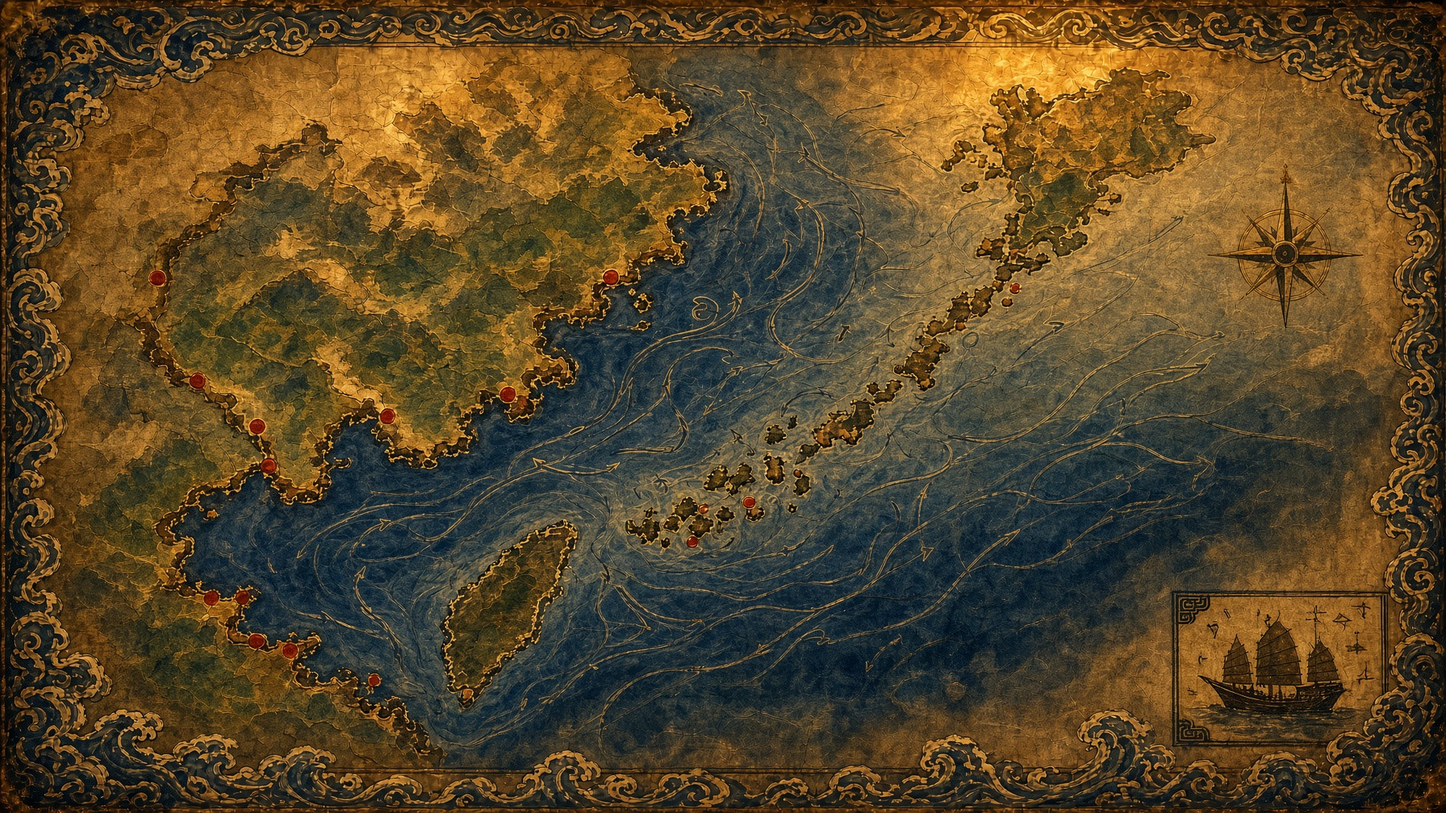
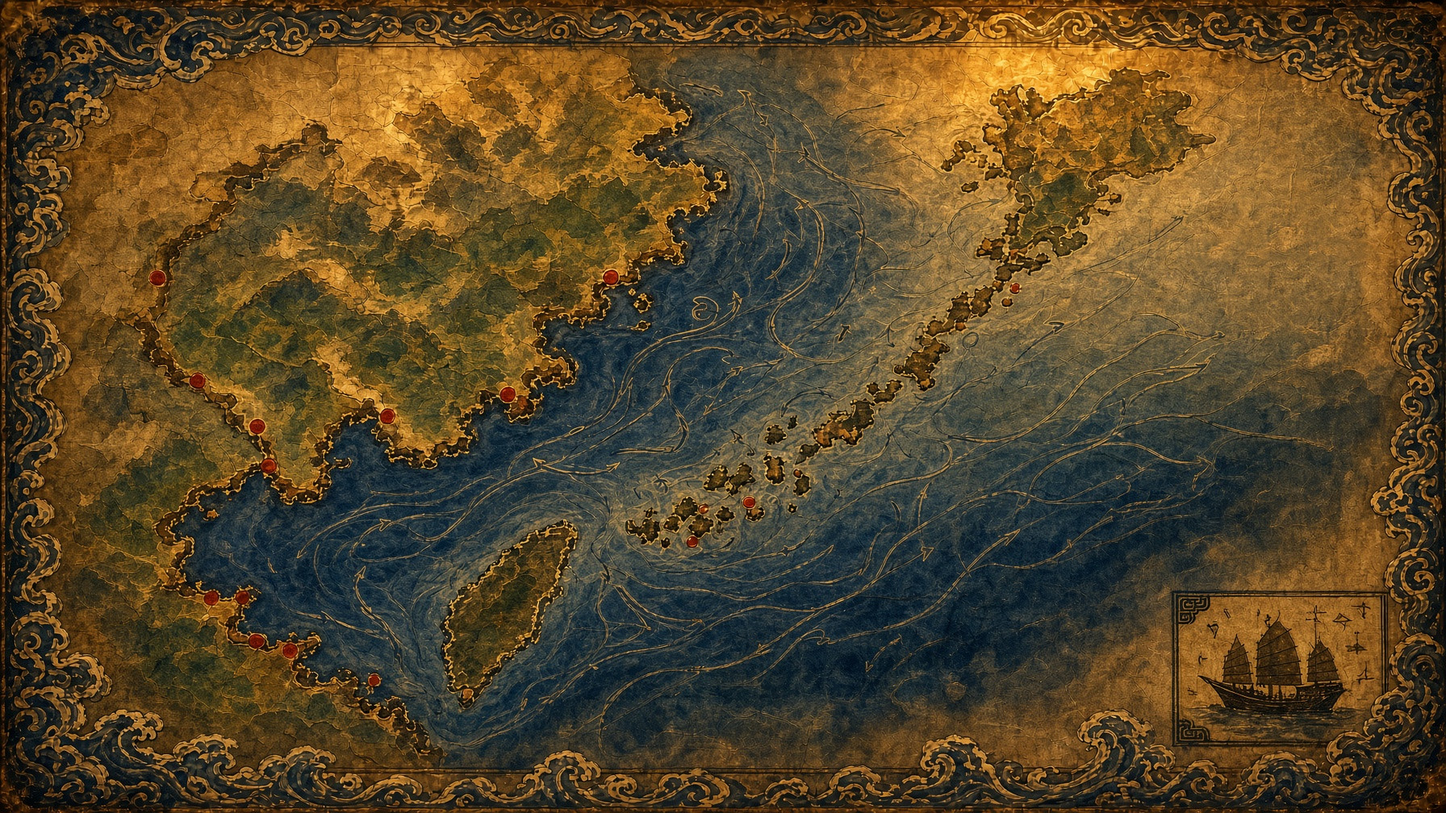
art(cutscene): 开场首镜 cs_world_map_gold 走 POSTFIX 抹掉右上八向风玫瑰（A′，备忘 #5）
import_cutscene_bgs.py 的 POSTFIX 登记 erase_world_map_compass.py --only cs --in-place；
删掉产物后不带 --force 重跑导入，从旧底 legacy:bg_world_map.jpg 重新导出（与原产物 sha1 71c1add… 相同）
再就地修，清单 out_sha1 → eea37ec…、加 post 字段，其余 18 条不变。另在副本上 --force 全量重导，19 张 sha1 全部不变。
改动 MCU 517 个，块外 DCT 口径 0 变动；判据：放射纹 0.0881→0.0109，暗圈 0.302→0.027。
过场读导入件 .ctex，已 headless --import 重新导入（.import 侧车不变）。

Changed region(s): [[0.8125, 0.1845, 0.9375, 0.3998]]

diff --git a/tools/art/import_cutscene_bgs.py b/tools/art/import_cutscene_bgs.py
@@ -20,7 +20,7 @@
 ~/tmp/nk1-art/assets，可用 NK1_LEGACY_ASSETS 覆盖。（lane gd13：原写死 Mac 家目录下的绝对路径，即 Mac 上 ~ 的展开，
 Mac 上默认路径不变；清单只记 codex: / legacy: / repo: 相对路径，换根不影响产物与 .import_manifest.json。）
 来源目录不在时（新克隆、别的机器、合回 main 后），--check 自动退化为 --data-only：只核对产物与清单一致，不报「来源缺失」。
-导出后要修瑕的图登记在 POSTFIX：写出后立即就地跑对应脚本（素材池原图带晚于宋元的器物，如青花），清单 out_sha1 记修后的图，
+导出后要修瑕的图登记在 POSTFIX：写出后立即就地跑对应脚本（素材池原图带晚于宋元的器物，如青花；或西式母题，如风玫瑰），清单 out_sha1 记修后的图，
 所以 --force 重导也不会把修过的地方冲回去。
 取不到时明确报错（lane doc8）：导入缺来源根 / 缺源图时 FAIL 行写明根取自环境变量还是缺省、该设哪个变量；
 环境变量显式设了却指向不存在的目录，导入与 --check 都直接 FAIL（不静默退化）；--data-only 不看来源，不受影响。
@@ -100,9 +100,11 @@ MANIFEST = [
 ]
 
 # 导出后就地修瑕（2026-09-26）：产物名 → tools/art/ 下的脚本与参数。青花是元至正以后的器物，改成宋元单色釉
+# 2026-09-28（A′，决策备忘 #5）：开场首镜右上的西式八向风玫瑰抹掉，补成周边金纸
 POSTFIX = {
     "cs_counting_house.jpg": ["fix_cs_qinghua.py", "--only", "counting_house", "--in-place"],
     "cs_quanzhou_fanfang.jpg": ["fix_cs_qinghua.py", "--only", "quanzhou_fanfang", "--in-place"],
+    "cs_world_map_gold.jpg": ["erase_world_map_compass.py", "--only", "cs", "--in-place"],
 }
 
 
